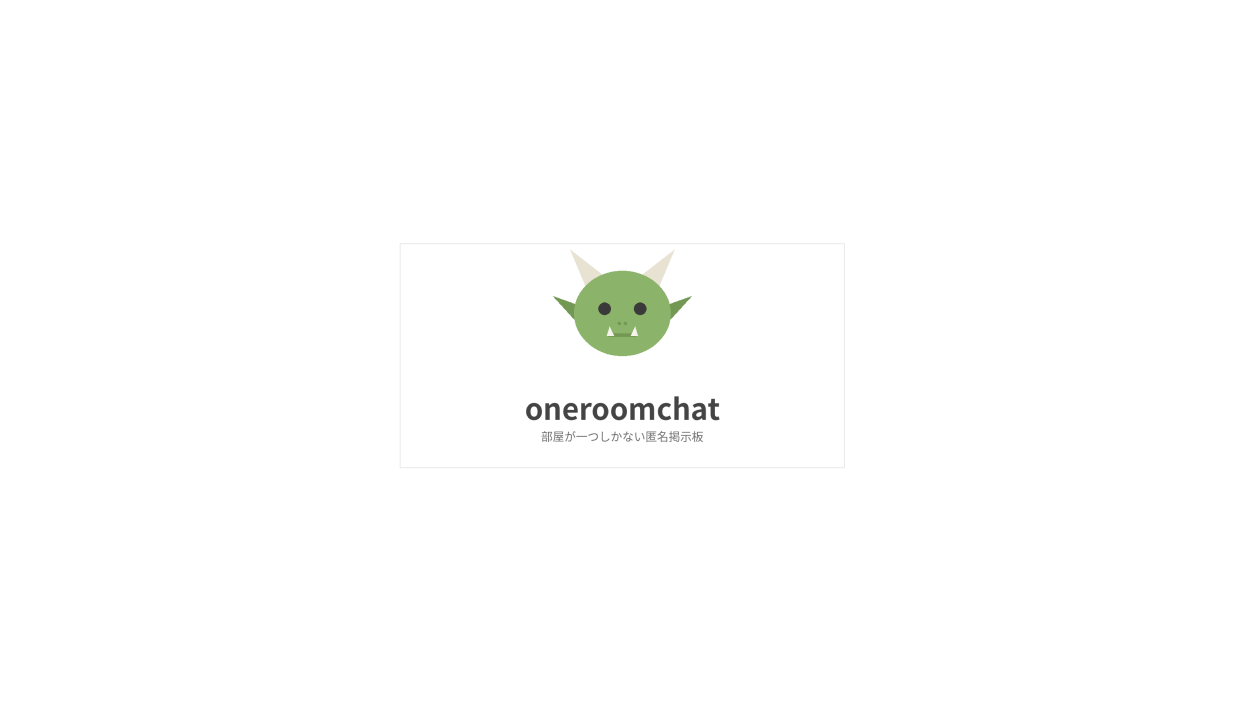
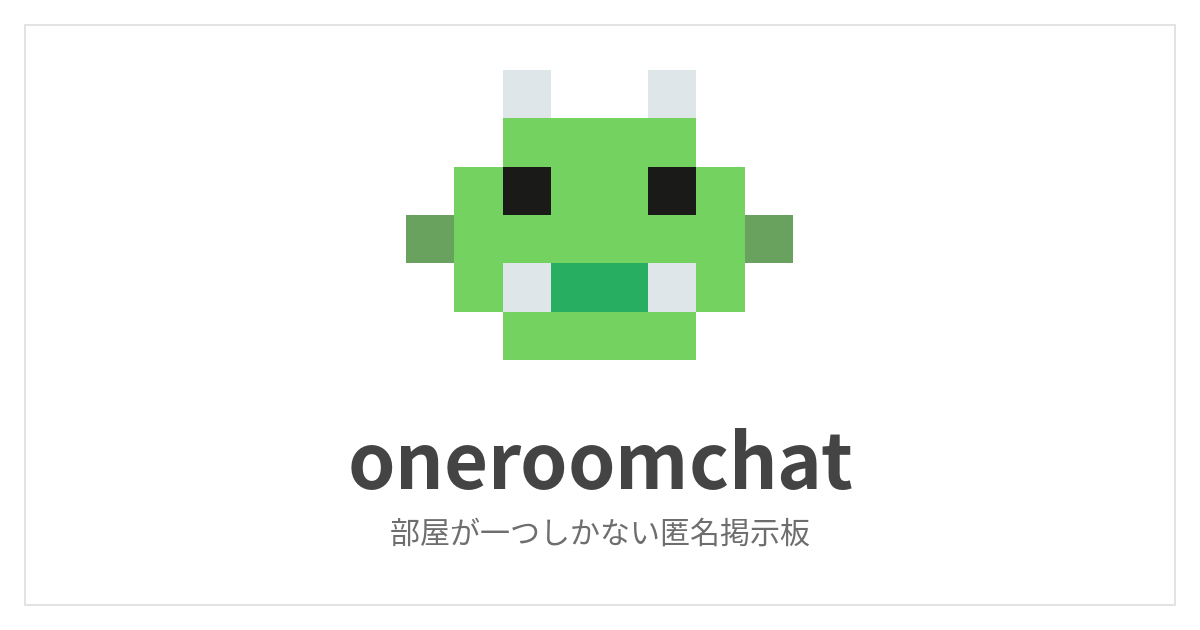
ファビコン

diff --git a/index.html b/index.html
@@ -4,6 +4,9 @@
 <meta charset="UTF-8">
 <meta name="viewport" content="width=device-width, initial-scale=1.0">
 <title>oneroomchat</title>
+<link rel="icon" type="image/png" sizes="64x64" href="./favicon.png">
+<link rel="icon" type="image/png" sizes="32x32" href="./favicon-32.png">
+<link rel="apple-touch-icon" href="./apple-touch-icon.png">
 <meta property="og:title" content="oneroomchat">
 <meta property="og:description" content="ワンルーム匿名掲示板">
 <meta property="og:image" content="https://11kawauso.github.io/Chaos-bbs/ogp.png">

diff --git a/privacy.html b/privacy.html
@@ -4,6 +4,9 @@
 <meta charset="UTF-8">
 <meta name="viewport" content="width=device-width, initial-scale=1.0">
 <title>プライバシーポリシー | oneroomchat</title>
+<link rel="icon" type="image/png" sizes="64x64" href="./favicon.png">
+<link rel="icon" type="image/png" sizes="32x32" href="./favicon-32.png">
+<link rel="apple-touch-icon" href="./apple-touch-icon.png">
 <meta name="robots" content="noindex">
 <style>
   :root {